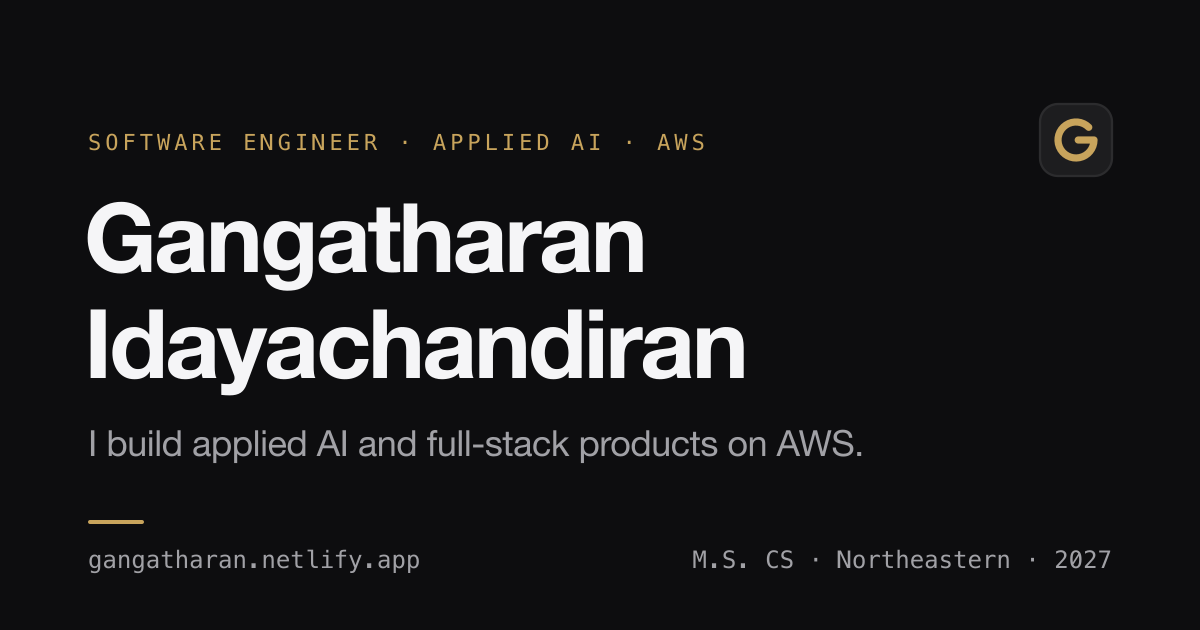
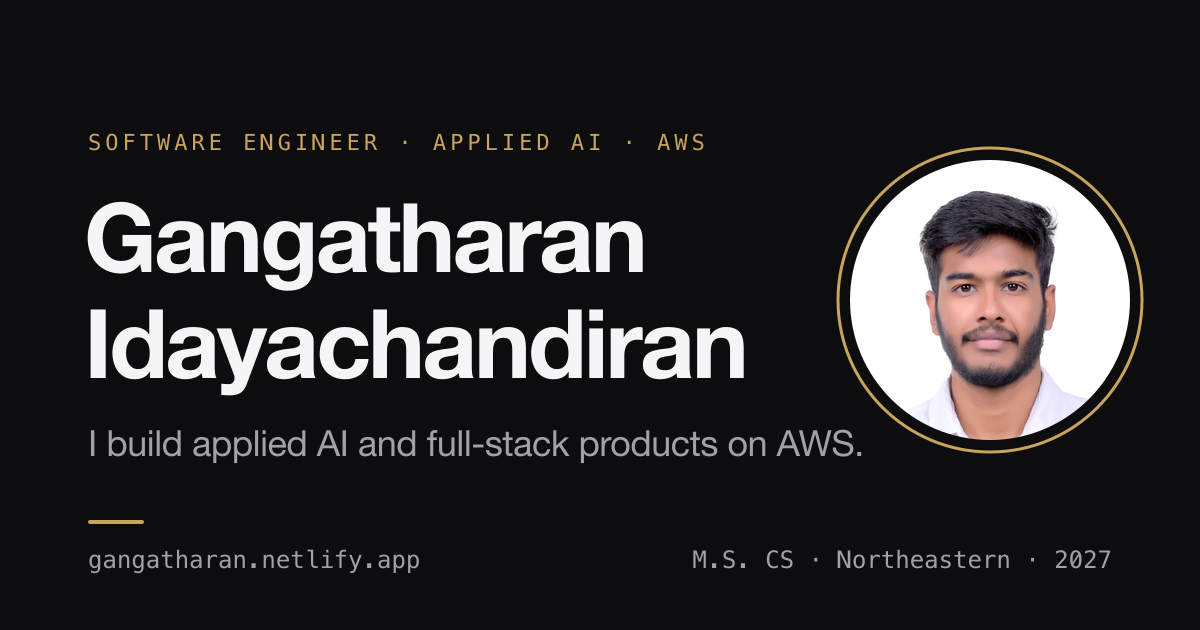
Add headshot to hero and social preview
Round headshot with a brass ring next to the tagline, matching the
pitch deck. Also used for the OG image and the Person schema image,
replacing the full-length portrait there; that photo stays in About.

Tagline segments are now non-breaking so narrow screens wrap at the
separators instead of orphaning "AWS".

Changed region(s): [[0.6783, 0.1508, 0.9558, 0.7238]]

diff --git a/components/hero.tsx b/components/hero.tsx
@@ -1,3 +1,4 @@
+import { Fragment } from "react"
 import { glance, profile, site } from "@/content/site"
 import { ArrowRight, ChevronRight, Download } from "@/components/icons"
 import { ShortcutHint } from "@/components/site-ui"
@@ -9,7 +10,29 @@ export function Hero() {
     <section className="hero" aria-labelledby="hero-title">
       <div className="container hero-grid">
         <div className="hero-copy">
-          <p className="mono hero-tag">{profile.tagline}</p>
+          <div className="hero-id">
+            <img
+              className="hero-avatar"
+              src={profile.headshot.src}
+              width={profile.headshot.width}
+              height={profile.headshot.height}
+              alt={profile.headshot.alt}
+              fetchPriority="high"
+              decoding="async"
+            />
+            <p className="mono hero-tag">
+              {/* Each part stays on one line, so wraps only happen at the separators. */}
+              {profile.tagline.split(" · ").map((part, i, all) => (
+                <Fragment key={part}>
+                  <span>
+                    {part}
+                    {i < all.length - 1 && " ·"}
+                  </span>
+                  {i < all.length - 1 && " "}
+                </Fragment>
+              ))}
+            </p>
+          </div>
           <h1 id="hero-title" className="hero-name">
             <span>{first}</span> <span>{rest.join(" ")}</span>
           </h1>

diff --git a/styles/hero.css b/styles/hero.css
@@ -12,9 +12,40 @@
   gap: var(--s6);
 }
 
+.hero-id {
+  display: flex;
+  align-items: center;
+  gap: var(--s2);
+  margin-bottom: var(--s3);
+}
+
+.hero-avatar {
+  flex: none;
+  width: 72px;
+  height: 72px;
+  border-radius: 50%;
+  object-fit: cover;
+  background: #fff;
+  /* thin brass ring with a gap, like the pitch deck */
+  box-shadow:
+    0 0 0 3px var(--bg),
+    0 0 0 4.5px var(--accent);
+}
+
 .hero-tag {
-  margin-bottom: var(--s2);
   color: var(--accent);
+  text-wrap: balance;
+}
+
+.hero-tag span {
+  white-space: nowrap;
+}
+
+@media (min-width: 760px) {
+  .hero-avatar {
+    width: 88px;
+    height: 88px;
+  }
 }
 
 .hero-name {

diff --git a/content/site.ts b/content/site.ts
@@ -30,6 +30,14 @@ export const profile = {
   location: "Boston, MA",
   availability: "Open to full-time roles from May 2027",
   email: "gangatharan8403@gmail.com",
+  // Round headshot at the top of the page.
+  headshot: {
+    src: "/images/headshot.webp",
+    width: 320,
+    height: 320,
+    alt: "Headshot of Gangatharan Idayachandiran",
+  },
+  // Full-length photo in the About section.
   portrait: {
     src: "/images/portrait.webp",
     width: 535,

diff --git a/app/layout.tsx b/app/layout.tsx
@@ -52,7 +52,7 @@ const personSchema = {
   "@type": "Person",
   name: profile.name,
   url: site.url,
-  image: `${site.url}/images/portrait.jpg`,
+  image: `${site.url}/images/headshot.jpg`,
   email: `mailto:${profile.email}`,
   jobTitle: "Software Engineering Intern",
   worksFor: { "@type": "Organization", name: "TensorIoT" },
